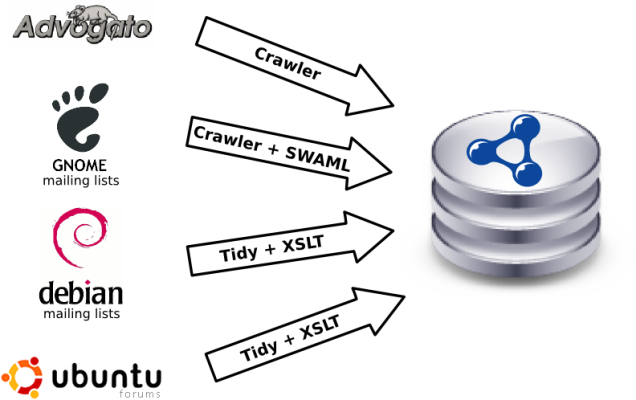
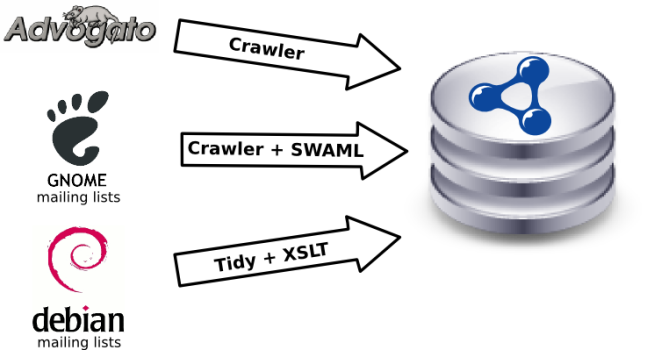
fixed some details

diff --git a/doc/talks/20080422-swsm2008/index.html b/doc/talks/20080422-swsm2008/index.html
@@ -155,7 +155,10 @@ provides the main concepts and properties required to describe information from 
 
 <div class="slide">
 <h1><span><span><span>Experiment</span></span></span></h1>
-<a href="http://keg.cs.tsinghua.edu.cn/SWSM2008/"><img src="images/experiment.png" alt="Advogato+GNOME+Debian+Ubuntuforums=RDF" style="display:block; margin-left: auto; margin-right:auto; margin-top: 2em;" /></a>
+<ul id="secuencial" class="incremental">
+  <li><a href="http://keg.cs.tsinghua.edu.cn/SWSM2008/"><img src="images/experiment.png" alt="Advogato+GNOME+Debian=RDF" style="display:block; margin-left: auto; margin-right:auto; margin-top: 2em; margin-bottom: 2em;" /></a></li>
+  <li class="secuencial">Advogato: more than 4.000 users in FOAF<br/>Subset GNOME mailing lists: 25 million RDF triples<br/>Subset Debian mailing lists: 3 million RDF triples</li>
+</ul>
 <!--
 FIXME: delete ubuntu, add numbers, and a sparql query
 -->
